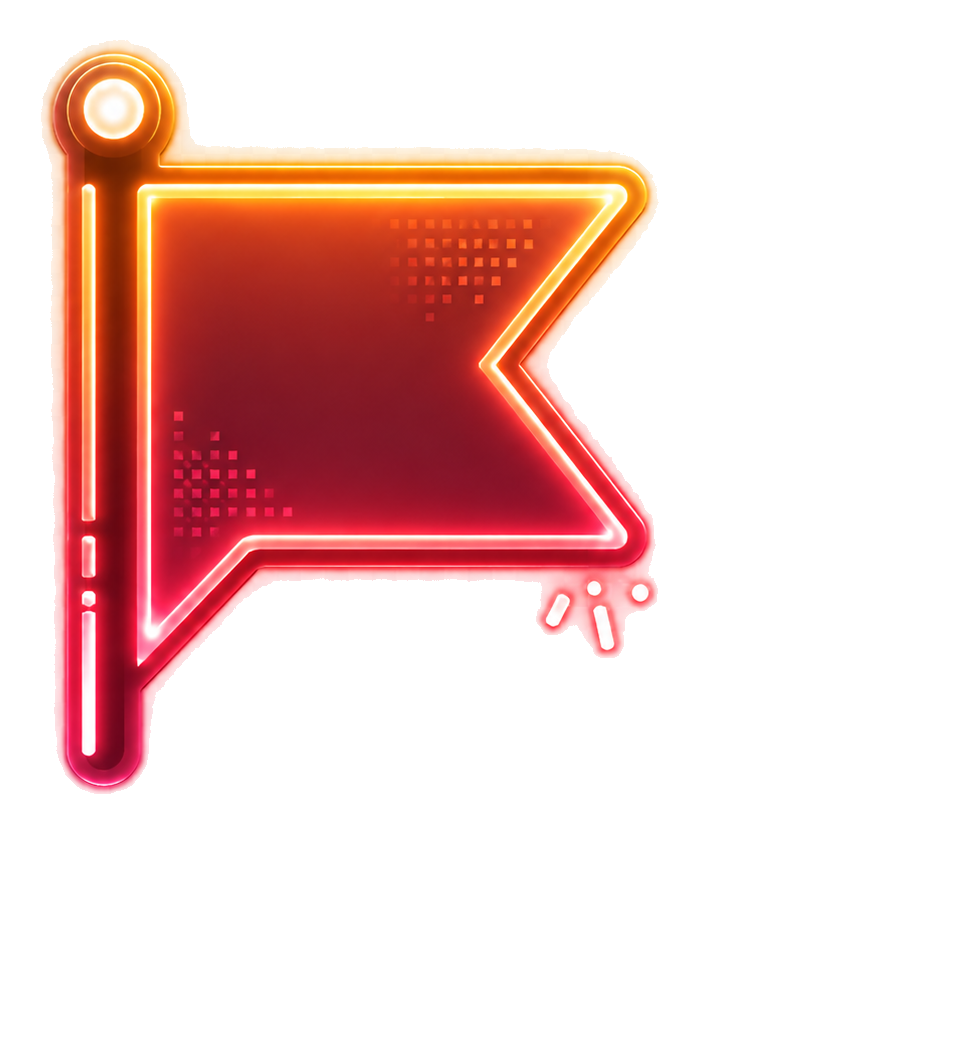
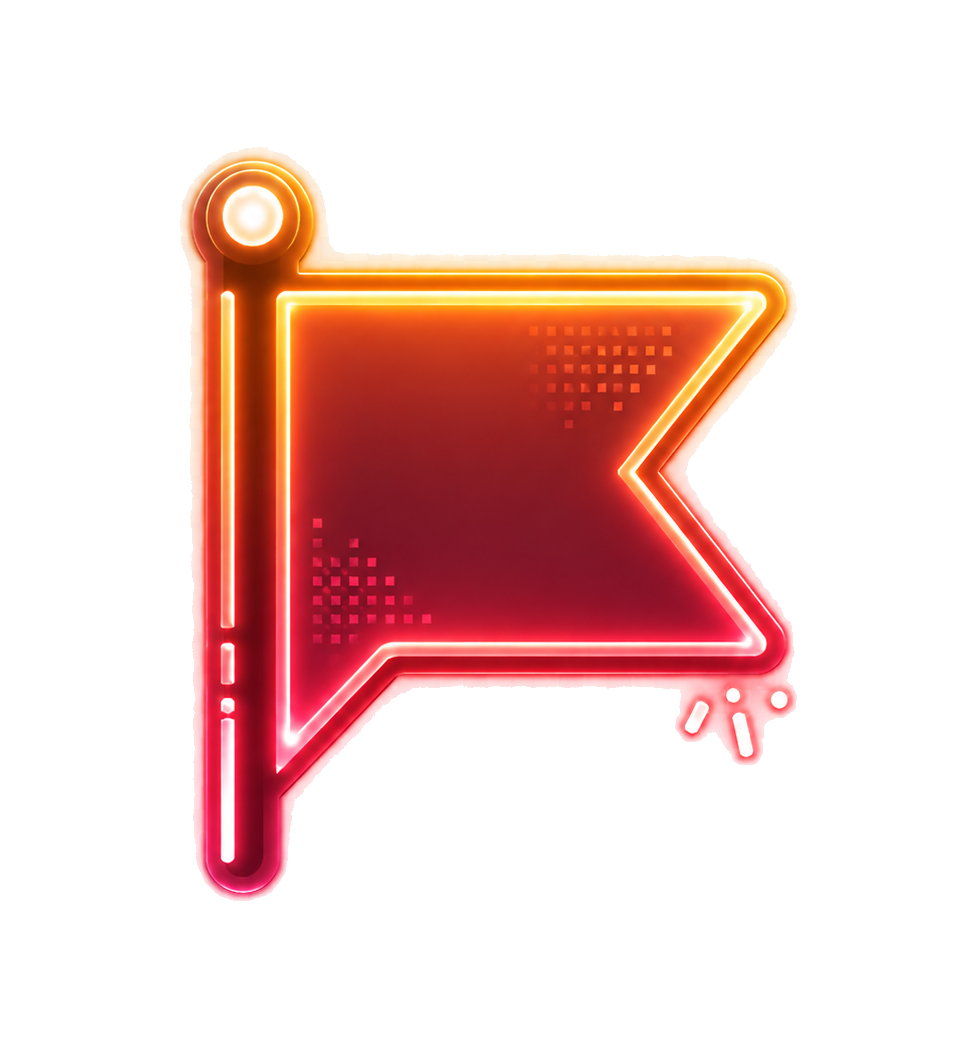
Fix orbital asset mapping and center event flag

diff --git a/components/pokestor/PokestorLanding.tsx b/components/pokestor/PokestorLanding.tsx
@@ -52,7 +52,8 @@ const features: Feature[] = [
     color: "#d48cff",
     secondary: "#7c3aed",
     surface: "#2d1452",
-    assetPath: "pokestor-assets/pokedex.png",
+    assetPath: "pokestor-assets/captura.png",
+    assetClassName: "scale-[0.94]",
     orbit: { x: 50, y: 15 },
   },
   {
@@ -64,8 +65,7 @@ const features: Feature[] = [
     color: "#7df9ae",
     secondary: "#0f9f6e",
     surface: "#0d4941",
-    assetPath: "pokestor-assets/captura.png",
-    assetClassName: "scale-[0.94]",
+    assetPath: "pokestor-assets/pokedex.png",
     orbit: { x: 86, y: 43 },
   },
   {
@@ -77,8 +77,8 @@ const features: Feature[] = [
     color: "#ffcf6d",
     secondary: "#c58620",
     surface: "#62410e",
-    assetPath: "pokestor-assets/exploracao.png",
-    assetClassName: "scale-[0.96]",
+    assetPath: "pokestor-assets/canal.png",
+    assetClassName: "scale-[1.06]",
     orbit: { x: 74, y: 79 },
   },
   {
@@ -90,8 +90,8 @@ const features: Feature[] = [
     color: "#5bd9ff",
     secondary: "#1d8fd6",
     surface: "#0f3774",
-    assetPath: "pokestor-assets/canal.png",
-    assetClassName: "scale-[1.06]",
+    assetPath: "pokestor-assets/exploracao.png",
+    assetClassName: "scale-[0.96]",
     orbit: { x: 26, y: 79 },
   },
   {